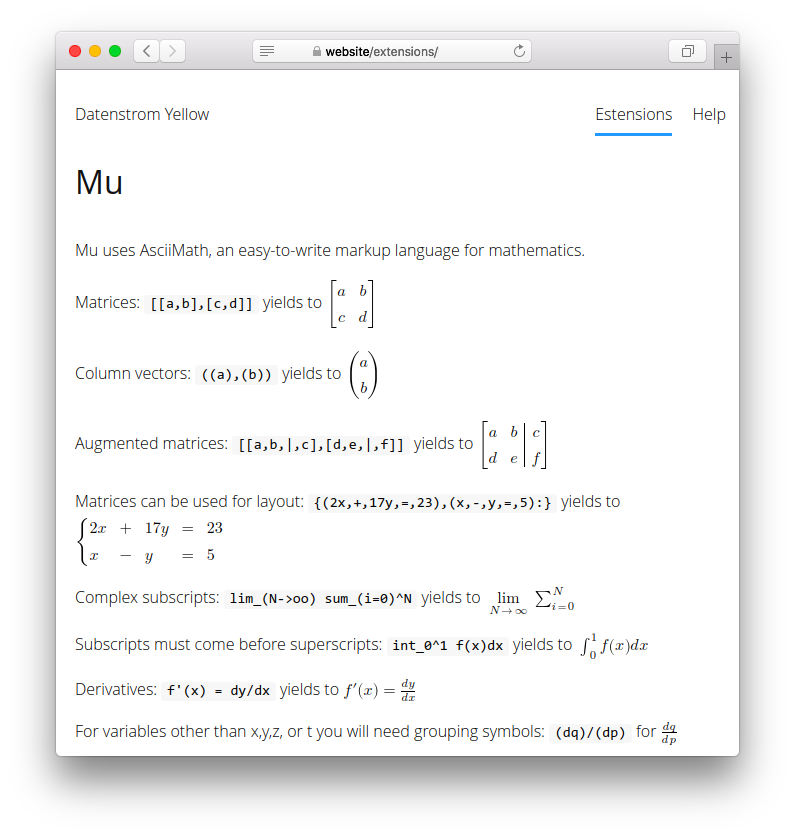
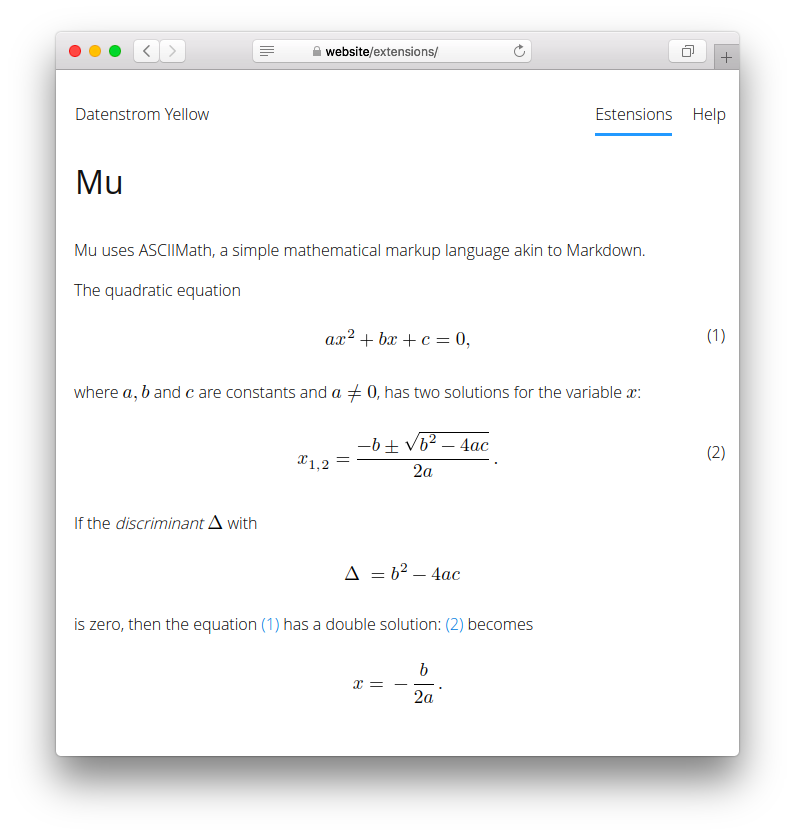
Numbering and cross-reference of expressions

diff --git a/mu.css b/mu.css
@@ -1,6 +1,55 @@
 /* Mu extension, https://github.com/GiovanniSalmeri/yellow-mu */
 
+:root {
+    /* TODO: variable for left align */
+    --mu-label-left-align: 0; /* 0 or 1 */
+    --mu-font-size: 1.2em;
+    --mu-label-left-delimiter: "(";
+    --mu-label-right-delimiter: ")";
+}
+span.mu, div.mu {
+    font-size: var(--mu-font-size);
+}
 math[display=block] { 
-    text-align: left; /* TODO make it work with Webkit/Blink */
+    display: block math;
+    text-align: center;
+    /*display: block;*/
+    /*text-align: left;*/
     padding: 0.5em 2em;
+}
+div.mu-display, span.mu-display { 
+    position: relative;
+}
+div.mu-display span.mu-label {
+    position: absolute;
+    right: var(--mu-label-left-align);
+    top: calc(50% - 1em);
+}
+span.mu-display span.mu-label {
+    font-size: 0.9em;
+    vertical-align: super;
+    line-height: 1.0;
+}
+div.mu-display:target::before, span.mu-display:target::before {
+    content: "";
+    position: absolute;
+    top: -0.5em;
+    left: -0.5em;
+    width: calc(100% + 1em);
+    height: calc(100% + 1em);
+    background-color: #FFFFAA;
+    border-radius: 3px;
+    z-index: -1;
+    animation: highlight 1s ease-in 1s forwards;
+}
+@keyframes highlight {
+    to {
+        background-color: inherit;
+    }
+}
+div.mu-display span.mu-label::before, span.mu-display span.mu-label::before, a.mu-label::before {
+    content: var(--mu-label-left-delimiter);
+}
+div.mu-display span.mu-label::after, span.mu-display span.mu-label::after, a.mu-label::after {
+    content: var(--mu-label-right-delimiter);
 }

diff --git a/mu.php b/mu.php
@@ -2,7 +2,7 @@
 // Mu extension, https://github.com/GiovanniSalmeri/yellow-mu
 
 class YellowMu {
-    const VERSION = "0.9.1";
+    const VERSION = "0.9.2";
     const ESCAPECLASS = "__mu__";
     public $yellow;         // access to API
 
@@ -24,19 +24,54 @@ class YellowMu {
         }
         $output = null;
         if ($name=="mu" && ($type=="block" || $type=="inline" || $type=="code")) {
-            list($expression) = $type=="code" ? [ $text ] : $this->yellow->toolbox->getTextArguments($text);
-            $expression = strtr($expression, [ "%%"=>"%", "%|"=>"]" ]);
-            $output .= $this->parser->parseMath($expression, $type!=="inline");
+            if ($type=="code") {
+                $expression = $text;
+                $label = preg_match('/(?:^|\s)#(\S+)/', $attributes, $matches) ? $matches[1] : "";
+            } else {
+                list($expression, $label) = $this->yellow->toolbox->getTextArguments($text);
+                $expression = strtr($expression , [ "%%"=>"%", "%|"=>"]" ]);
+                $label = substr($label, 0, 1)=="#" ? substr($label, 1) : "";
+            }
+            if ($type=="inline") {
+                $output = "<span class=\"mu\">".$this->parser->parseMath($expression, $type!=="inline")."</span>";
+                if ($label!=="") {
+                    $page->muLabels = true;
+                    $output = "<span class=\"mu-display\" id=\"math[##$label]\"><span class=\"mu-label\">[##$label]</span> ".$output."</span>";
+                }
+            } else {
+                $output = "<div class=\"mu\">\n".$this->parser->parseMath($expression, $type!=="inline")."\n</div>\n";
+                if ($label!=="") {
+                    $page->muLabels = true;
+                    $output = "<div class=\"mu-display\" id=\"math[##$label]\">\n<span class=\"mu-label\">[##$label]</span>\n".$output."\n</div>\n";
+                }
+            }
         }
         return $output;
     }
 
-    // Handle page content
+    // Handle page content in HTML format
     public function onParseContentHtml($page, $text) {
-        if (isset($page->useKatex) && !$page->useKatex) {
-            return preg_replace_callback('/<span class="'.self::ESCAPECLASS.'">(.*?)<\/span>/s', function($matches) { return htmlspecialchars_decode($matches[1]); }, $text);
+        $output = $text;
+        if (empty($page->useKatex)) {
+            $output = preg_replace_callback('/<span class="'.self::ESCAPECLASS.'">(.*?)<\/span>/s', function ($matches) { return htmlspecialchars_decode($matches[1]); }, $output);
         }
-     }
+        if (!empty($page->muLabels)) {
+            $ids = [];
+            $output = preg_replace_callback('/\[##(\S+?)\]/', function ($m) use (&$ids) {
+                static $currentId = 0;
+                if (!isset($ids[$m[1]])) $ids[$m[1]] = ++$currentId;
+                return $ids[$m[1]];
+            }, $output);
+            $output = preg_replace_callback('/\[#(\S+?)\]/', function ($m) use ($ids) {
+                if (isset($ids[$m[1]])) {
+                    return "<a class=\"mu-label\" href=\"#math{$ids[$m[1]]}\">{$ids[$m[1]]}</a>";
+                } else {
+                    return $m[0];
+                }
+            }, $output);
+        }
+        return $output!==$text ? $output : null;
+    }
 
     // Handle page extra data
     public function onParsePageExtra($page, $name) {
@@ -47,7 +82,6 @@ class YellowMu {
         }
         return $output;
     }
-
 }
 
 class AsciiMathMl {
@@ -860,7 +894,6 @@ THE SOFTWARE.
 }
 
 class AsciiMathMlEscaped extends AsciiMathMl {
-
     public function parseMath($str, $isDisplay = true) {
         return "<span class=\"".YellowMu::ESCAPECLASS."\">".htmlspecialchars(parent::parseMath($str, $isDisplay))."</span>";
     }
@@ -3098,7 +3131,6 @@ class AsciiMathToTex {
 }
 
 class AsciiMathHtmlTex extends AsciiMathToTex {
-
     public function parseMath($str, $isDisplay = true) {
         $content = $this->parse($str, $isDisplay);
         $tag = $isDisplay ? "div" : "span";

diff --git a/README.md b/README.md
@@ -1,4 +1,4 @@
-# Mu 0.9.1
+# Mu 0.9.2
 
 Mathematical expressions with AsciiMath.
 
@@ -15,6 +15,12 @@ With this extension you can write mathematical expressions with AsciiMath. [Asci
 The first option is to write a mathematical expression with a shortcut. Create a `[mu]` shortcut. Wrap the whole expression in quotes if there are spaces or quotes. Inside the expression use `%|` instead of `]`, and `""` instead of `"`.
 
 The second option is to write a mathematical expression with a code block. Wrap the whole expression in `` ``` `` and add the identifier `mu`.
+
+## How to cross-refer to a mathematical expression
+
+If you use a shortcut, add a label prefixed by `#` as second argument. If you use a code block, add after the identifier a label prefixed by `#` and wrapped in braces `{}`. The mathematical expression will be automatically numbered.
+
+To refer to an expression, use the label prefixed by `#` and wrapped in brackets `[]`.
 
 ## Examples
 
@@ -33,6 +39,21 @@ An expression using a code block:
     ``` mu
     {(2x,+,17y,=,23),(x,-,y,=,5):}
     ```
+
+An expression using a shortcut, numbered:
+
+    [mu x=(-b+-sqrt(b^2-4ac))/(2a) #solutions]
+    [mu "sum_(i=1)^n i^3=((n(n+1))/2)^2" #cubes]
+
+An expression using a code block, numbered:
+
+    ``` mu {#progression}
+    sum_(k=1)^n k = 1+2+ cdots +n=(n(n+1))/2
+    ```
+
+A reference to an expression:
+
+    The solutions of a quadratic equation are given by [#solutions].
 
 ## Settings
 
